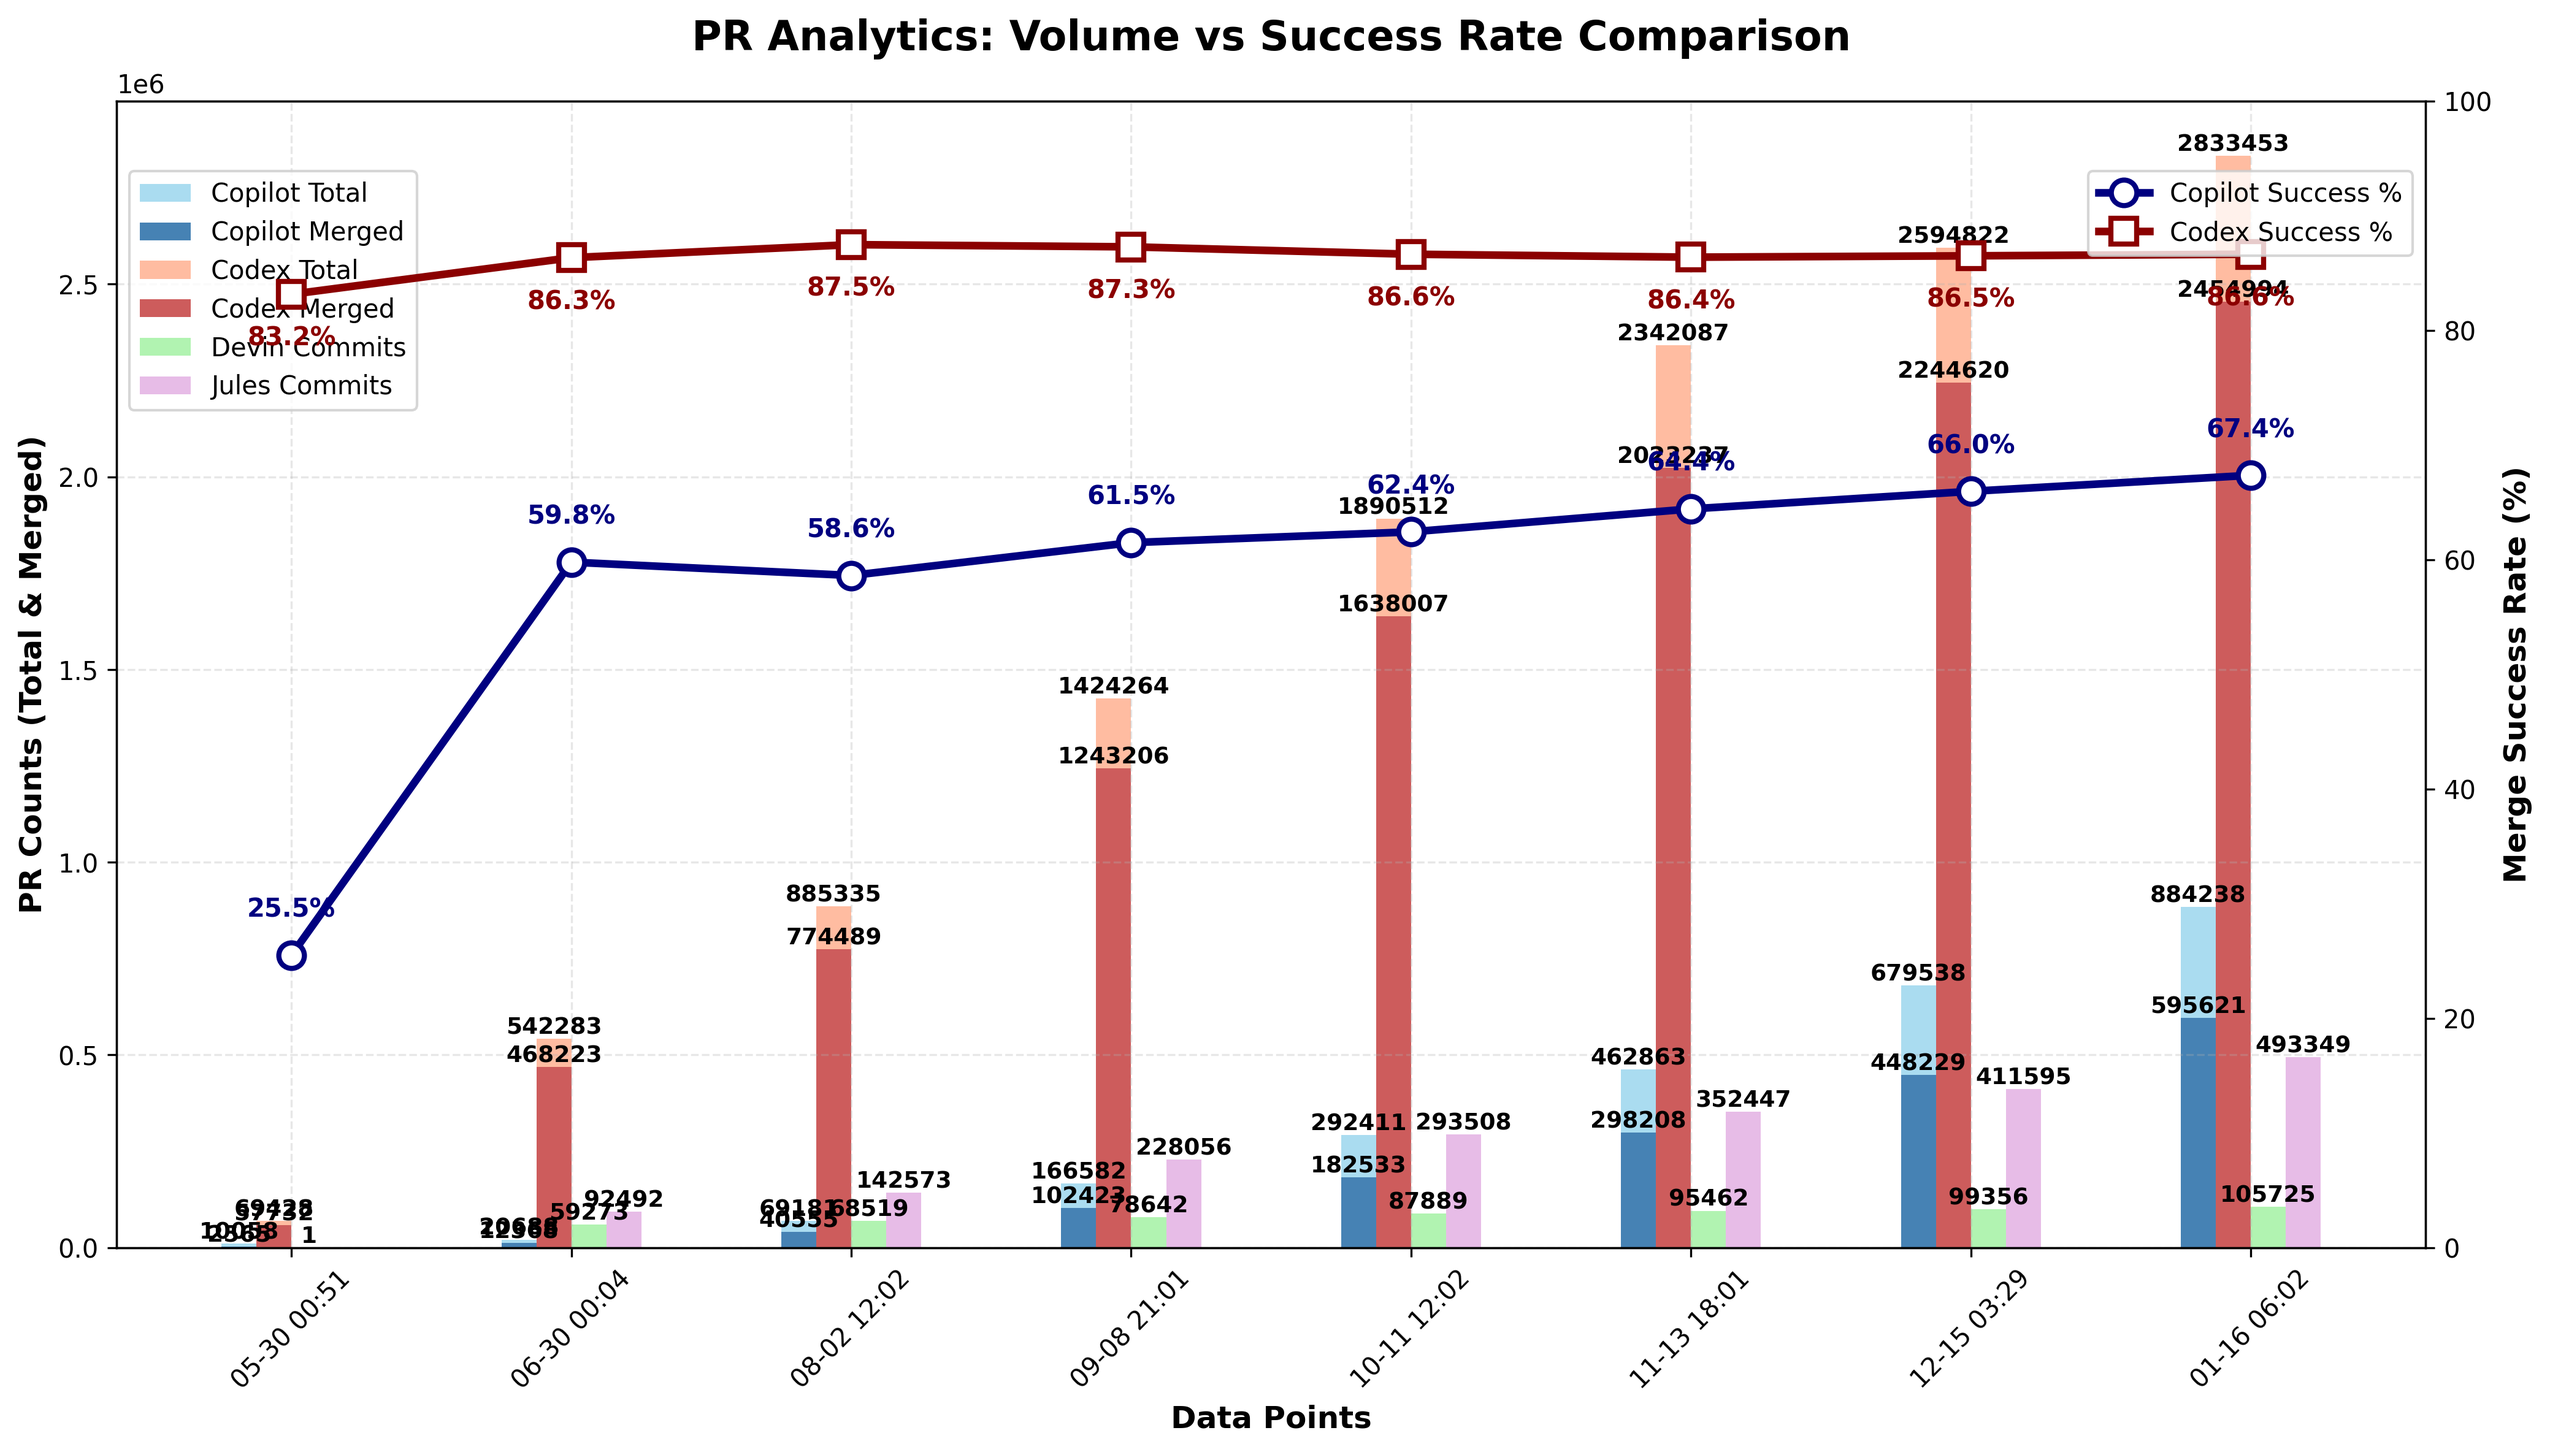
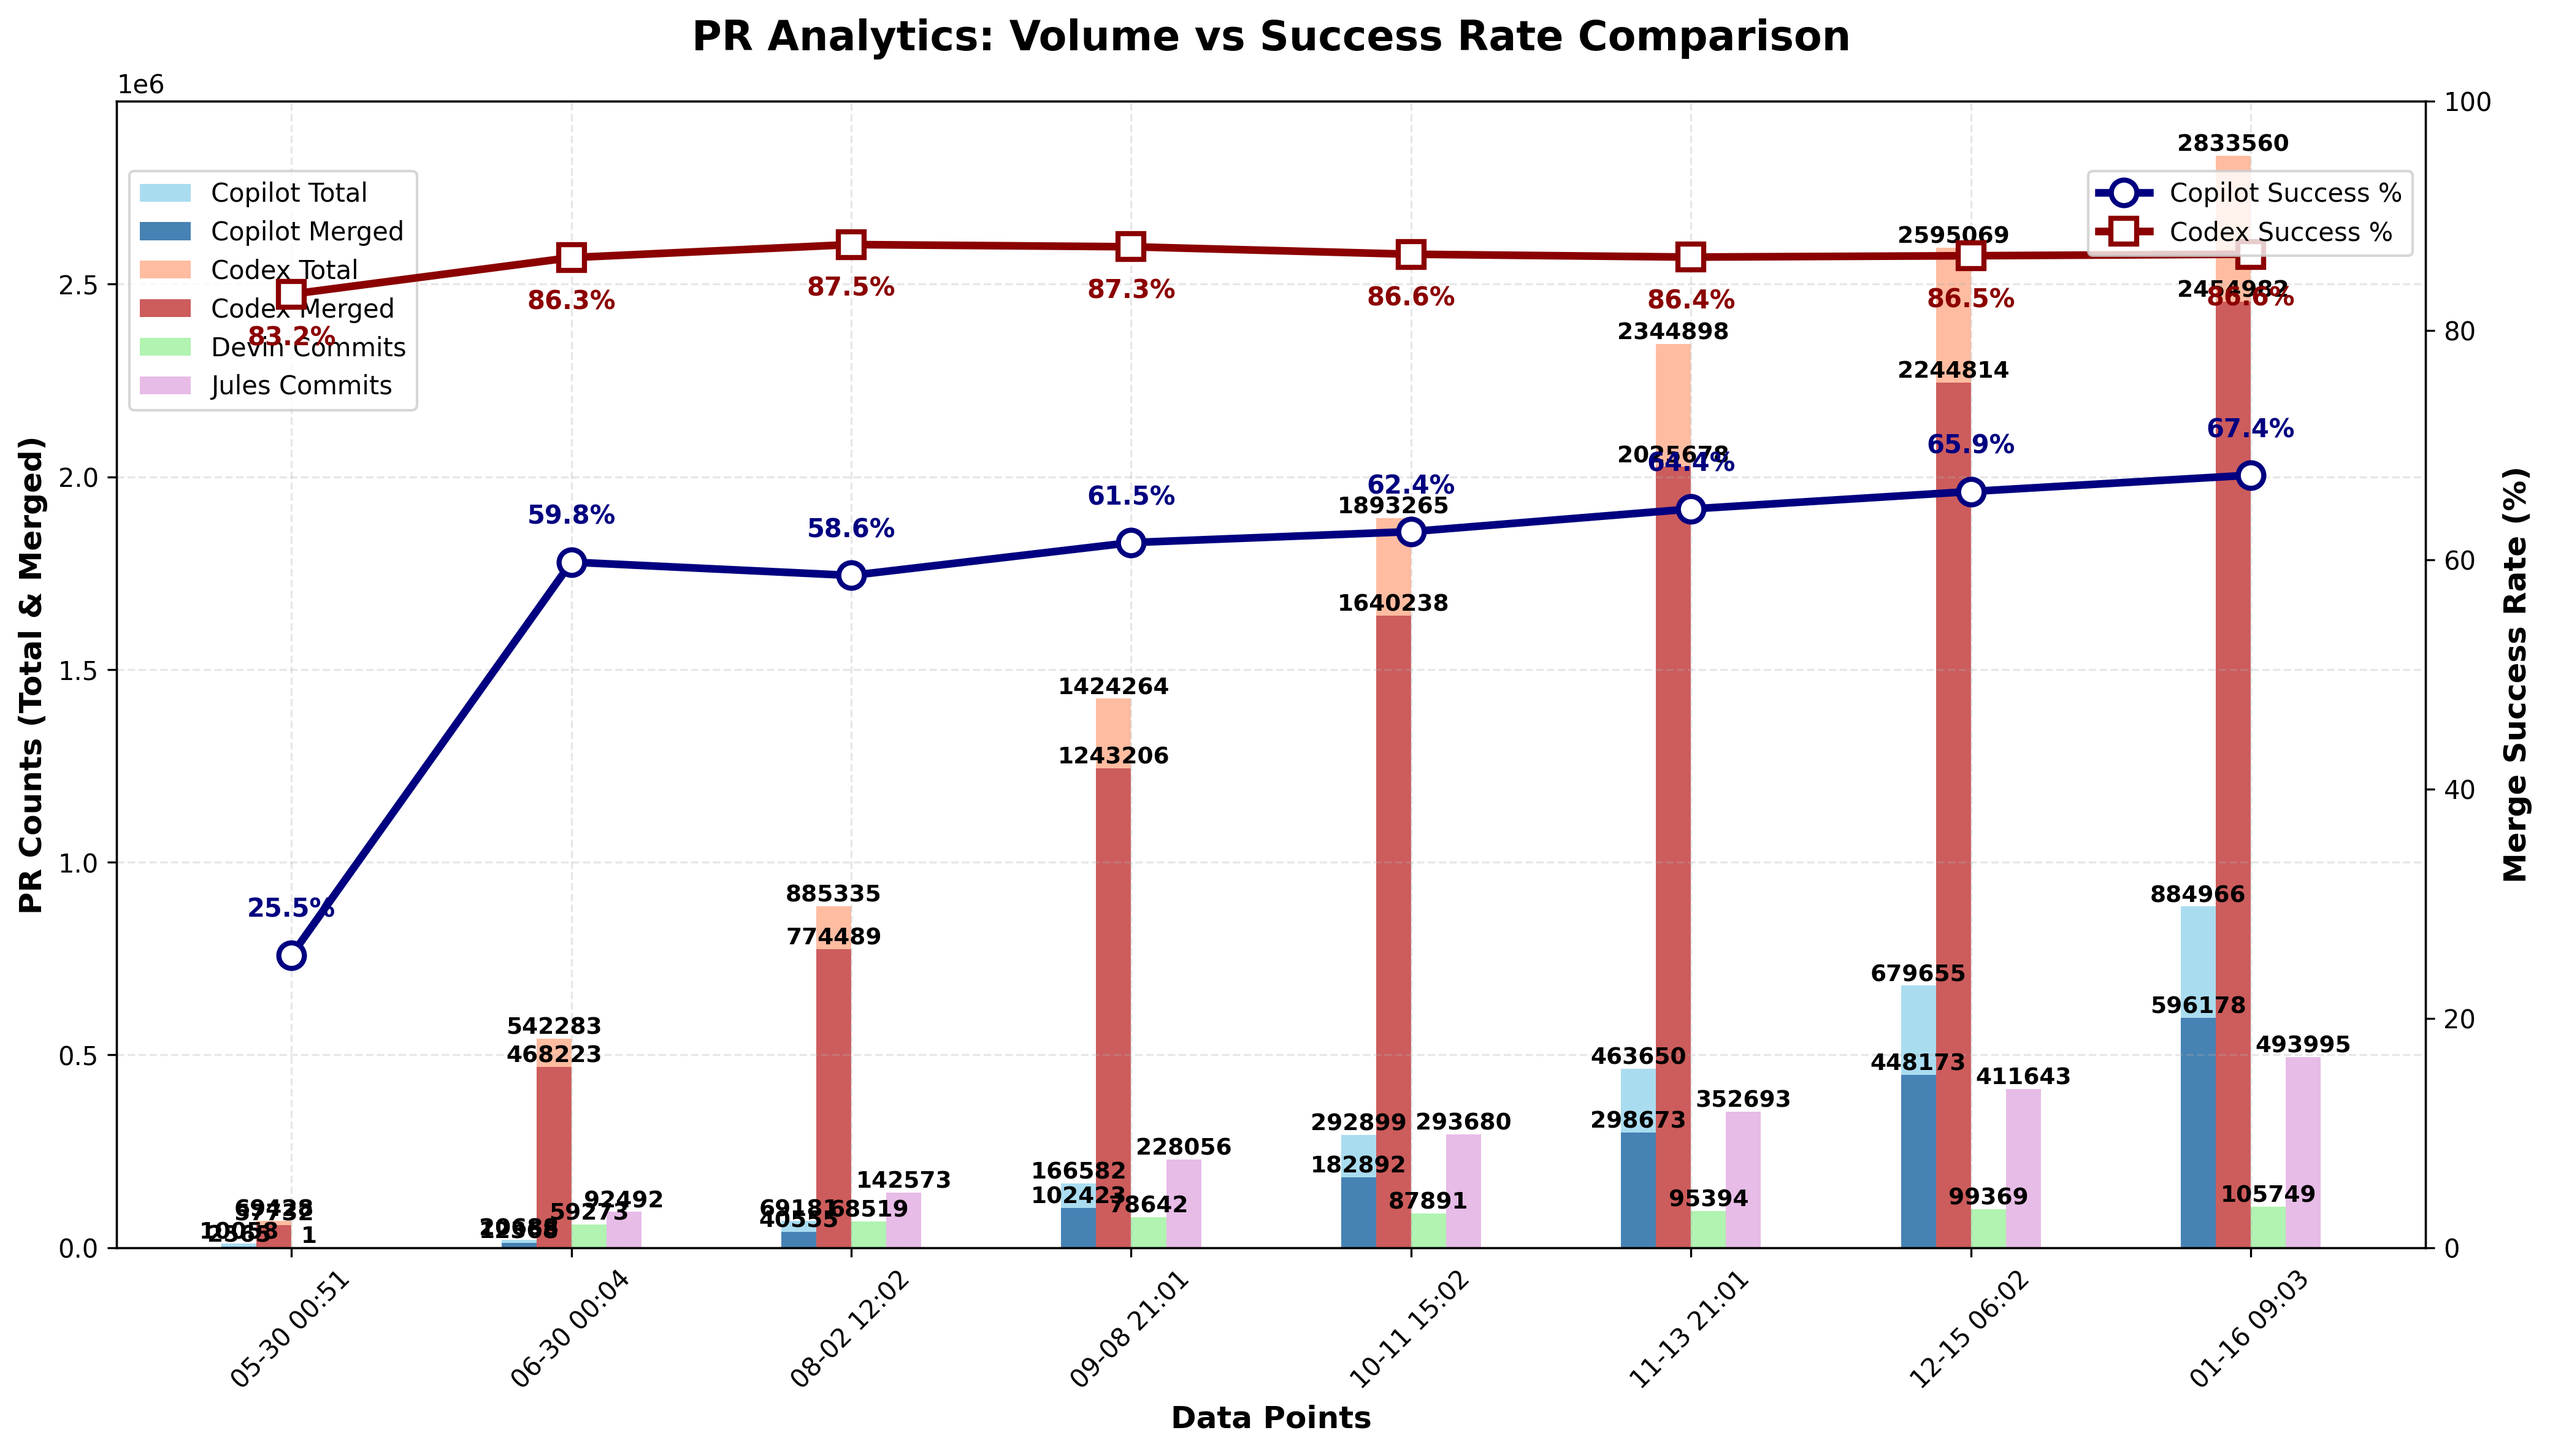
chore: update PR‑approval chart

diff --git a/docs/index.html b/docs/index.html
@@ -1782,6 +1782,7 @@
                         <td>N/A</td>
                         <td>N/A</td>
                         <td>N/A</td>
+                        <td>N/A</td>
                     </tr>
                     <tr>
                         <td>Codex</td>
@@ -3522,27 +3523,28 @@
                         <td>N/A</td>
                         <td>N/A</td>
                         <td>N/A</td>
+                        <td>N/A</td>
                     </tr>
                 <tr>
                         <td>Devin</td>
                         <td>N/A</td>
                         <td>N/A</td>
                         <td>N/A</td>
-                        <td>105,725</td>
+                        <td>105,749</td>
                     </tr>
                     <tr>
                         <td>Jules</td>
                         <td>N/A</td>
                         <td>N/A</td>
                         <td>N/A</td>
-                        <td>493,349</td>
+                        <td>493,995</td>
                     </tr>
                     </tbody>
             </table>
         </section>
 
         <footer>
-            <p>Last updated: <span id="last-updated">January 16, 2026 06:02 UTC</span></p>
+            <p>Last updated: <span id="last-updated">January 16, 2026 09:03 UTC</span></p>
             <p><a href="https://github.com/aavetis/ai-pr-watcher">View on GitHub</a></p>
         </footer>
     </div>

diff --git a/README.md b/README.md
@@ -19,7 +19,7 @@ Explore the GitHub search queries used:
 
 | Service | Total PRs | Merged PRs | Merge Rate | Total Commits |
 | ------- | --------- | ---------- | ---------- | ------------- |
-| Copilot | 884,238 | 595,621 | 67.36% | N/A           |
-| Codex   | 2,833,453 | 2,454,994 | 86.64% | N/A           |
-| Devin   | N/A       | N/A        | N/A        | 105,725 |
-| Jules   | N/A       | N/A        | N/A        | 493,349 |
+| Copilot | 884,966 | 596,178 | 67.37% | N/A           |
+| Codex   | 2,833,560 | 2,454,982 | 86.64% | N/A           |
+| Devin   | N/A       | N/A        | N/A        | 105,749 |
+| Jules   | N/A       | N/A        | N/A        | 493,995 |
